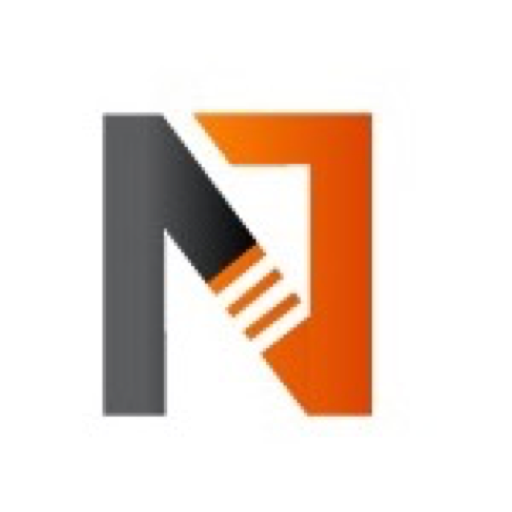
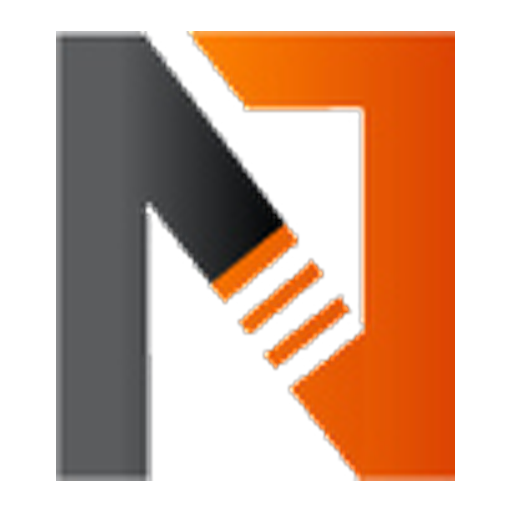
메인 좌측 여백 정렬 통일 + 탭 아이콘 흰 배경 제거 (#38)
* fix(layout): 본문 폭을 네비게이션과 통일해 좌측 여백 정렬

네비게이션(.nav-inner)은 1600px, 본문 컨테이너(.wrap)는 1440px 로
서로 다른 최대 폭을 쓰고 있었다. 1440px 보다 넓은 화면에서는 모든
섹션이 상단 로고보다 80px 씩 더 안쪽에서 시작해, 메인 페이지가
왼쪽 여백만 크고 오른쪽으로 쏠린 것처럼 보였다.

--page-max 변수 하나로 합치고 네비·본문·제품 캐러셀 정렬 계산식·
제품 상세 섹션이 모두 이를 참조하게 한다(1600px 기준으로 통일).
캐러셀의 좌측 인셋과 스크롤 스냅 위치도 같은 값을 쓰므로 첫 카드가
섹션 제목 아래 정확히 맞춰진다. 1440px 이하에서는 양쪽 다 56px
패딩이라 레이아웃 변화가 없다.

Claude-Session: https://claude.ai/code/session_014TSRvvTJjPNqzseL2pUHVY

* fix(brand): 탭 아이콘의 흰 배경 제거

파비콘이 흰 사각형 위에 마크가 얹힌 형태라, 크롬 탭바의 회색
배경 위에서 흰 박스만 도드라져 지저분해 보였다. 투명 배경을 가진
public/brand/logo.png 원본에서 N 마크만 잘라내 배경 없이 다시
만든다. 작은 크기에서 또렷하도록 여백은 6% 로 최소화했다.

iOS 홈화면 아이콘(apple-icon)은 투명을 지원하지 않아 검은 사각형이
되므로, 브랜드 다크 배경을 깔고 여백을 넉넉히 준 별도 파일로 둔다.

Claude-Session: https://claude.ai/code/session_014TSRvvTJjPNqzseL2pUHVY

---------

diff --git a/app/globals.css b/app/globals.css
@@ -8,6 +8,12 @@
    ============================================================ */
 
 :root {
+  /* Page content width, shared by the nav and every section below it.
+   * These used to disagree — the nav ran to 1600px while `.wrap` stopped
+   * at 1440px, so on wide screens every section sat 80px further in than
+   * the logo above it and the page read as pushed to the right. One
+   * variable keeps the whole column on the same edge. */
+  --page-max: 1600px;
   --bg: #1c1c1e;
   --bg-2: #2a2a2c;
   --bg-3: #0d0d0e;
@@ -63,7 +69,7 @@ button { font-family: inherit; background: none; border: 0; color: inherit; curs
 ::selection { background: var(--accent); color: #0d0d0e; }
 
 /* ---------- Helpers ---------- */
-.wrap { max-width: 1440px; margin: 0 auto; padding: 0 56px; }
+.wrap { max-width: var(--page-max); margin: 0 auto; padding: 0 56px; }
 
 .eyebrow {
   font-family: var(--mono);
@@ -121,7 +127,7 @@ p { line-height: 1.65; }
 .nav-inner {
   display: flex; align-items: center; justify-content: space-between;
   height: 112px; padding: 0 56px;
-  max-width: 1600px; margin: 0 auto;
+  max-width: var(--page-max); margin: 0 auto;
 }
 .logo {
   display: inline-flex; align-items: center;
@@ -644,8 +650,8 @@ section { position: relative; }
 /* The rail is full-bleed, so the arrows track the wrap inset rather than
  * the rail's own edge — otherwise they'd float out in the empty margin
  * on a wide monitor, far from the cards they scroll. */
-.pl-nav-prev { left: max(10px, calc((100% - 1440px) / 2 + 10px)); }
-.pl-nav-next { right: max(10px, calc((100% - 1440px) / 2 + 10px)); }
+.pl-nav-prev { left: max(10px, calc((100% - var(--page-max)) / 2 + 10px)); }
+.pl-nav-next { right: max(10px, calc((100% - var(--page-max)) / 2 + 10px)); }
 .pl-nav.is-hidden { opacity: 0; pointer-events: none; }
 @media (max-width: 767px) {
   /* On phones the rail is a 1-up flick scroller — arrows just crowd it. */
@@ -658,18 +664,18 @@ section { position: relative; }
   /* Full-bleed track. The rail sits outside .wrap, so this padding
    * re-creates the wrap's inset — first card lines up under the section
    * title, and everything past the last visible card runs off the
-   * viewport edge instead of being clipped by a 1440px container.
+   * viewport edge instead of being clipped by the page container.
    * `100%` here is the section width, not 100vw, so a vertical
    * scrollbar can't push the page sideways. */
-  padding-left: max(56px, calc((100% - 1440px) / 2 + 56px));
-  padding-right: max(56px, calc((100% - 1440px) / 2 + 56px));
+  padding-left: max(56px, calc((100% - var(--page-max)) / 2 + 56px));
+  padding-right: max(56px, calc((100% - var(--page-max)) / 2 + 56px));
   padding-bottom: 16px;
   overflow-x: auto;
   scroll-snap-type: x mandatory;
   /* Must mirror padding-left. Snap positions are measured from the
    * scrollport edge, so without this the first card snaps flush to the
    * viewport edge on load and the inset above is silently undone. */
-  scroll-padding-left: max(56px, calc((100% - 1440px) / 2 + 56px));
+  scroll-padding-left: max(56px, calc((100% - var(--page-max)) / 2 + 56px));
   scrollbar-width: thin;
   scrollbar-color: rgba(0, 0, 0, .25) transparent;
 }
@@ -1354,7 +1360,7 @@ section { position: relative; }
 }
 .product-detail .pd-section h3 em { font-style: normal; color: var(--accent); }
 .product-detail .pd-section h3 span[style] { color: inherit !important; }
-.pd-section { padding: 80px 56px; border-bottom: 1px solid var(--border-soft); max-width: 1440px; margin: 0 auto; }
+.pd-section { padding: 80px 56px; border-bottom: 1px solid var(--border-soft); max-width: var(--page-max); margin: 0 auto; }
 .pd-section:last-child { border-bottom: 0; }
 .pd-section-head { margin-bottom: 36px; max-width: 680px; }
 .pd-section-head .pd-eyebrow { display: block; }
@@ -1394,7 +1400,7 @@ section { position: relative; }
   display: grid; grid-template-columns: 1fr 1fr;
   min-height: 560px;
   border-bottom: 1px solid var(--border-soft);
-  max-width: 1440px;
+  max-width: var(--page-max);
   margin: 0 auto;
 }
 .pd-hero-media { position: relative; background: var(--bg-3); min-height: 460px; }
